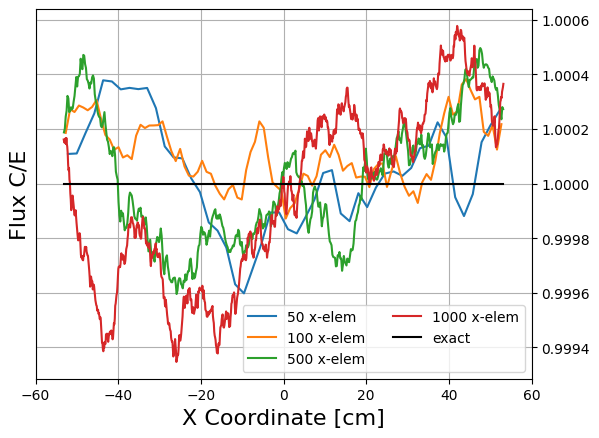
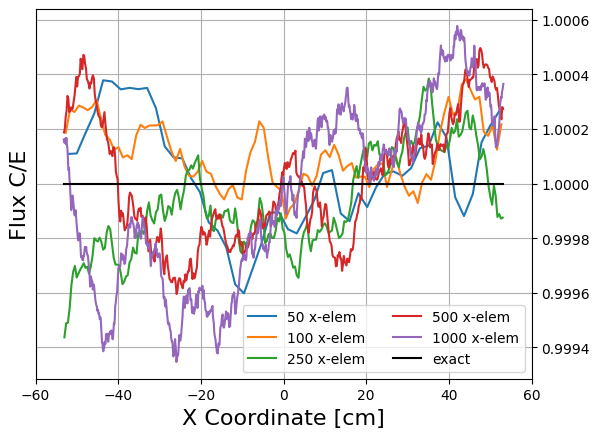
250 resultsgit status

diff --git a/simulations/no_ss_no_mesh_template/restarts/re-viz/visualize_results_flux_only.py b/simulations/no_ss_no_mesh_template/restarts/re-viz/visualize_results_flux_only.py
@@ -5,8 +5,7 @@ from matplotlib import ticker as mtick
 import pandas as pd
 
 # list mesh element sizes that will be used to iterate through all cases
-# n_elems = [50,100,250,500,1000]
-n_elems = [50,100,500,1000]
+n_elems = [50,100,250,500,1000]
 log_N = np.log(n_elems)
 L = 106.47 # equilibrium length from paper
 P = 1.0e22 # eV/s
@@ -54,7 +53,7 @@ for n in n_elems:
         tallied_global_system_powers[n] = sp.get_tally(id=2).get_slice(scores=['kappa-fission'])
     eigs[n] = [float(sp.keff.n),float(sp.keff.s)]
 
-# print(eigs)
+print(eigs)
 
 source_strengths = {}
 # compute source strengths and convert flux to proper n/cm^2-s unit
